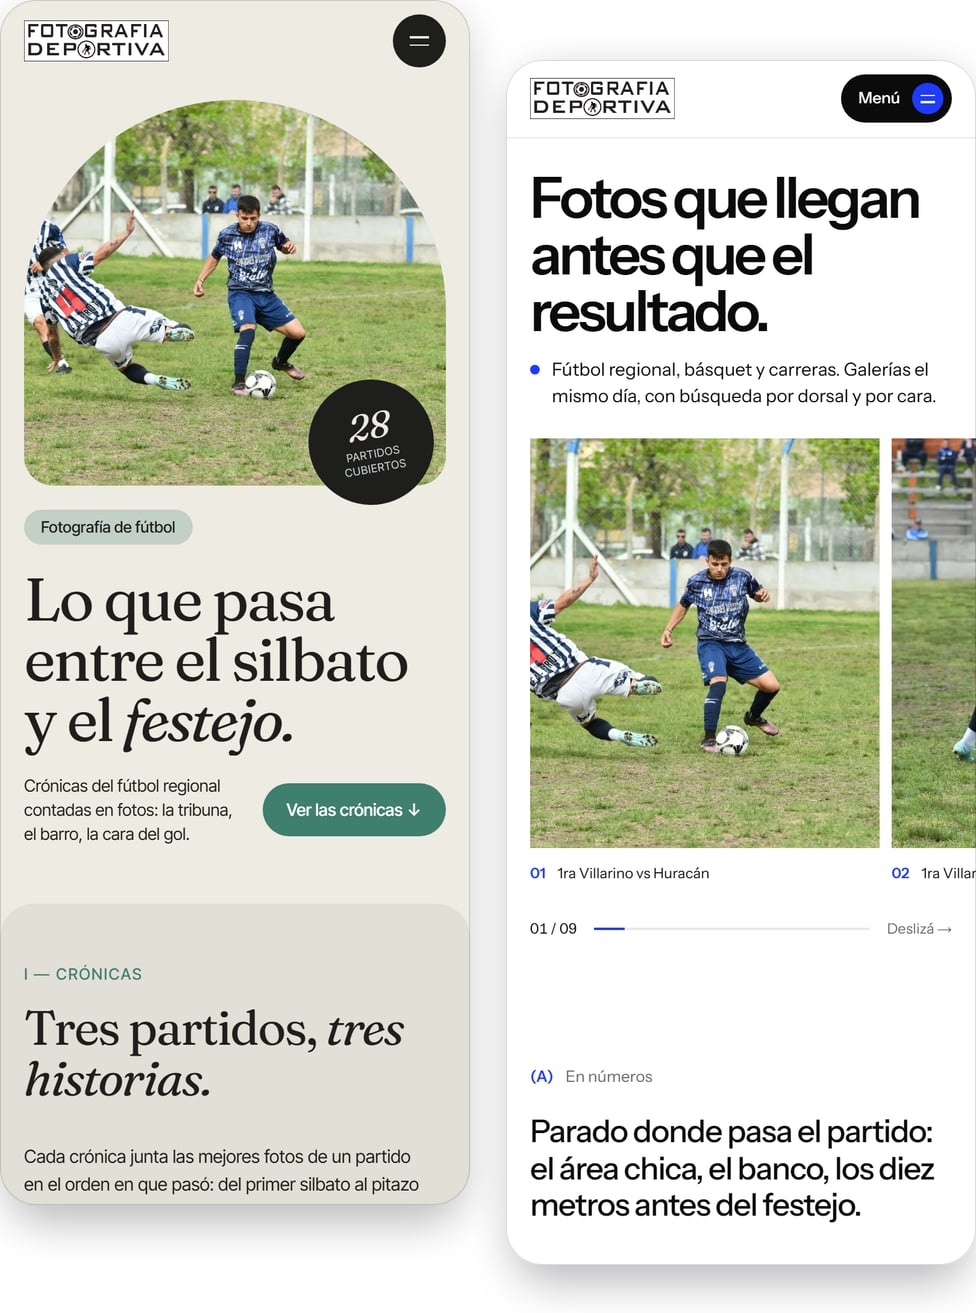
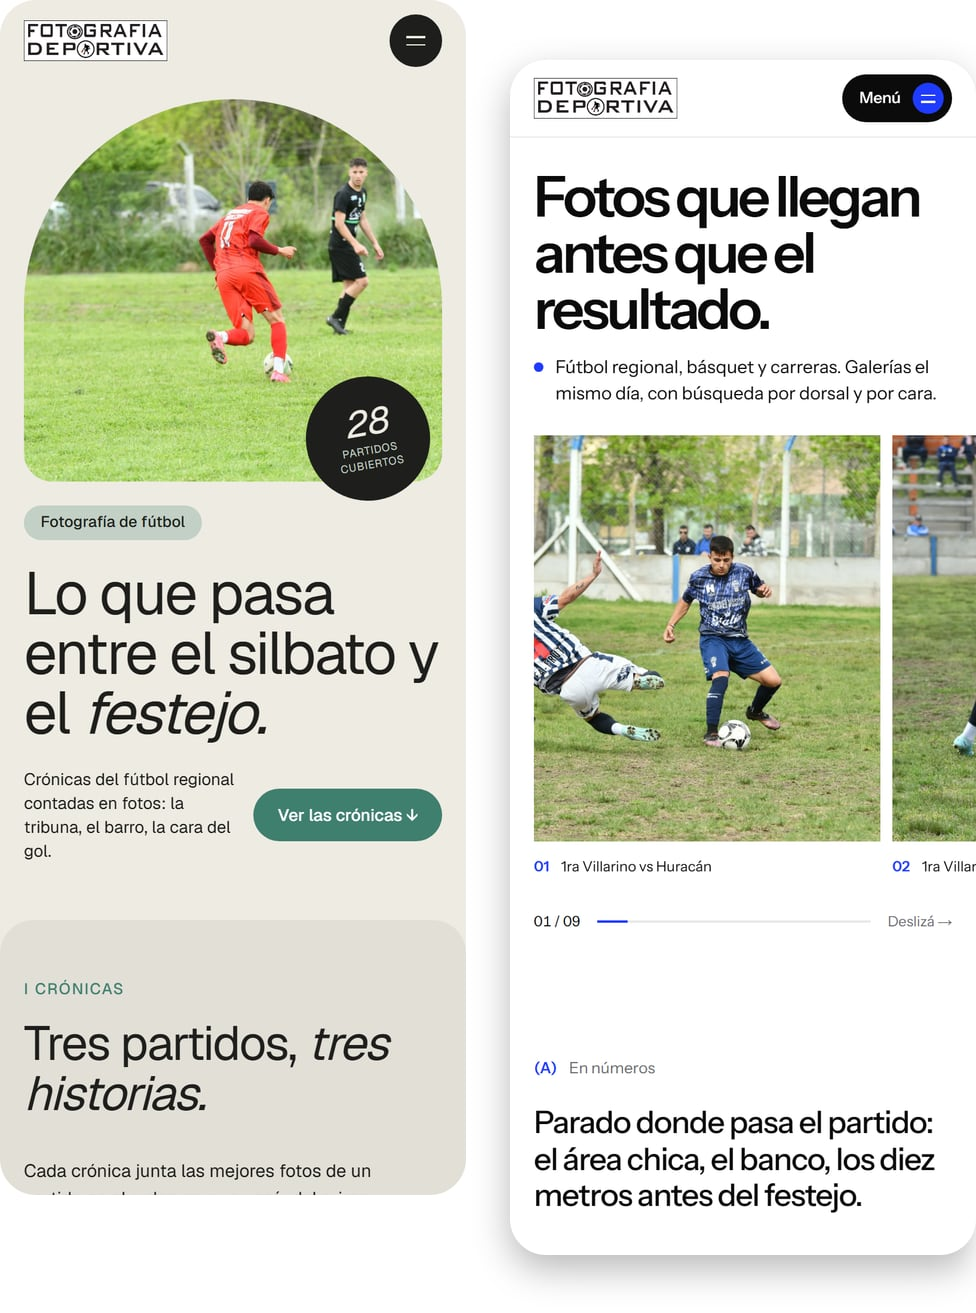
feat(portfolio): Sendero en Geist, sin rayas en los numerales ni en el mail
Sendero pasa de Fraunces + Inter Tight a Geist en todo (títulos incluidos),
y los rótulos de sección quedan «I Crónicas» en vez de «I — Crónicas». El
texto del anuncio de Portfolio deja de usar rayas, y su imagen se volvió a
generar con la plantilla así.

Claude-Session: https://claude.ai/code/session_01H4n4TpDoVf66vfvj3qfLvJ

diff --git a/cuervito/src/app/_portfolio/plantillas/sendero.tsx b/cuervito/src/app/_portfolio/plantillas/sendero.tsx
@@ -35,7 +35,7 @@ export const SENDERO_NODES: Record<string, EditorNode> = {
   "sd-sello-label":  { id: "sd-sello-label",  type: "paragraph", content: "carreras cubiertas" },
 
   /* Crónicas */
-  "sd-cron-num":     { id: "sd-cron-num",     type: "paragraph", content: "I —" },
+  "sd-cron-num":     { id: "sd-cron-num",     type: "paragraph", content: "I" },
   "sd-cron-label":   { id: "sd-cron-label",   type: "paragraph", content: "Crónicas" },
   "sd-cron-heading": { id: "sd-cron-heading", type: "heading",   content: "Tres carreras, <em>tres historias.</em>" },
   "sd-cron-intro":   { id: "sd-cron-intro",   type: "paragraph", content: "Cada crónica junta las mejores fotos de un evento en el orden en que pasó: de la largada a la última llegada." },
@@ -46,13 +46,13 @@ export const SENDERO_NODES: Record<string, EditorNode> = {
   "sd-cita-caption": { id: "sd-cita-caption", type: "paragraph", content: "{ubicacion}" },
 
   /* Cuaderno de ruta */
-  "sd-ruta-num":     { id: "sd-ruta-num",     type: "paragraph", content: "II —" },
+  "sd-ruta-num":     { id: "sd-ruta-num",     type: "paragraph", content: "II" },
   "sd-ruta-label":   { id: "sd-ruta-label",   type: "paragraph", content: "Cuaderno de ruta" },
   "sd-ruta-heading": { id: "sd-ruta-heading", type: "heading",   content: "Todas las carreras, <em>una por una.</em>" },
   "sd-ruta-intro":   { id: "sd-ruta-intro",   type: "paragraph", content: "Tocá un evento para ver su galería completa y buscar tus fotos por dorsal o con una selfie." },
 
   /* Sobre mí */
-  "sd-about-num":     { id: "sd-about-num",     type: "paragraph", content: "III —" },
+  "sd-about-num":     { id: "sd-about-num",     type: "paragraph", content: "III" },
   "sd-about-label":   { id: "sd-about-label",   type: "paragraph", content: "Sobre mí" },
   "sd-about-image":   { id: "sd-about-image",   type: "image",     src: "", alt: "Retrato" },
   "sd-about-image-2": { id: "sd-about-image-2", type: "image",     src: "", alt: "" },
@@ -60,7 +60,7 @@ export const SENDERO_NODES: Record<string, EditorNode> = {
   "sd-about-body":    { id: "sd-about-body",    type: "paragraph", content: "Trabajo con organizadores de carreras de montaña. Llego antes de la largada, elijo el punto donde la carrera se pone difícil y me quedo hasta el último corredor. Las fotos se suben el mismo día, y cada atleta encuentra las suyas con su dorsal o una selfie." },
 
   /* Contacto */
-  "sd-contact-num":     { id: "sd-contact-num",     type: "paragraph", content: "IV —" },
+  "sd-contact-num":     { id: "sd-contact-num",     type: "paragraph", content: "IV" },
   "sd-contact-label":   { id: "sd-contact-label",   type: "paragraph", content: "Contacto" },
   "sd-contact-heading": { id: "sd-contact-heading", type: "heading",   content: "Escribime y <em>vamos</em> a tu carrera." },
   "sd-contact-body":    { id: "sd-contact-body",    type: "paragraph", content: "Contame la fecha, el lugar y cuántos corredores esperás. Respondo en el día." },

diff --git a/cuervito/src/server/correos/plantillas.ts b/cuervito/src/server/correos/plantillas.ts
@@ -218,7 +218,7 @@ export function portfolioPronto(d: Destinatario): Mail {
         ${texto("La tienda es para vender: fotos con precio, buscador, carrito. Pero cuando un organizador o una marca te pregunta qué hacés, lo que querés mandar es otra cosa: tus veinte mejores fotos, grandes, sin marca de agua y con tu nombre arriba. Eso es Portfolio, y lo estamos terminando.")}
         ${pieza(imagen, "Dos pantallas de un portfolio con las plantillas Sendero y Fotofinish, en el celular", 488, 657)}
         ${aire}
-        ${texto("Elegís las fotos de tus eventos —las que más se vendieron, o las que quieras—, una plantilla, y queda en encontrate.app con tu dirección. Quien lo ve te escribe desde ahí, y cada evento del portfolio lleva a su galería en tu tienda.")}
+        ${texto("Elegís las fotos de tus eventos, las que más se vendieron o las que quieras, una plantilla, y queda en encontrate.app con tu dirección. Quien lo ve te escribe desde ahí, y cada evento del portfolio lleva a su galería en tu tienda.")}
         ${boton("Ir a mi panel", url)}
         ${nota("Lo vas a ver en tu panel en las próximas semanas, en la sección Portfolio. Mientras tanto, un consejo: subí los eventos que te faltan, porque las fotos del portfolio salen de ahí.")}
       `),
@@ -228,7 +228,7 @@ export function portfolioPronto(d: Destinatario): Mail {
 
 La tienda es para vender: fotos con precio, buscador, carrito. Pero cuando un organizador o una marca te pregunta qué hacés, lo que querés mandar es otra cosa: tus veinte mejores fotos, grandes, sin marca de agua y con tu nombre arriba. Eso es Portfolio, y lo estamos terminando.
 
-Elegís las fotos de tus eventos —las que más se vendieron, o las que quieras—, una plantilla, y queda en encontrate.app con tu dirección. Quien lo ve te escribe desde ahí, y cada evento del portfolio lleva a su galería en tu tienda.
+Elegís las fotos de tus eventos, las que más se vendieron o las que quieras, una plantilla, y queda en encontrate.app con tu dirección. Quien lo ve te escribe desde ahí, y cada evento del portfolio lleva a su galería en tu tienda.
 
 Lo vas a ver en tu panel en las próximas semanas, en la sección Portfolio. Mientras tanto, subí los eventos que te faltan: las fotos del portfolio salen de ahí.
 

diff --git a/cuervito/src/app/_portfolio/plantillas/SenderoPlantilla.tsx b/cuervito/src/app/_portfolio/plantillas/SenderoPlantilla.tsx
@@ -1,8 +1,8 @@
 "use client";
 
 /**
- * Sendero — crónica de montaña: hueso, roca y verde verdín, Fraunces e Inter
- * Tight, fotos en arcos y tarjetas redondeadas.
+ * Sendero — crónica de montaña: hueso, roca y verde verdín, Geist en todo,
+ * fotos en arcos y tarjetas redondeadas.
  *
  * Diseñada en Paper (archivo «encontrate — Portfolio», página 6). Todo se
  * mueve con peso y sin apuro, con una sola curva (--sd-curva): el arco de la
@@ -437,7 +437,7 @@ function Ruta() {
             return (
               <Clic key={e.href} href={e.href} className="sd-fila" data-rv="" style={{ "--i": i } as React.CSSProperties}>
                 <span className="sd-fila-fecha">
-                  <b>{f?.dia ?? "—"}</b>
+                  <b>{f?.dia ?? ""}</b>
                   <small>{f ? `${f.mes} ${f.anio}` : "sin fecha"}</small>
                 </span>
                 {e.portada && (

diff --git a/cuervito/src/app/_portfolio/plantillas/registro.ts b/cuervito/src/app/_portfolio/plantillas/registro.ts
@@ -37,11 +37,11 @@ export const PLANTILLAS: Record<IdPlantilla, TemplateDef> = {
   sendero: {
     id: "sendero",
     name: "Sendero",
-    descripcion: "Crónica de montaña: arcos, hueso y verde verdín.",
+    descripcion: "Crónica de montaña: arcos, hueso, verde verdín y Geist.",
     initialNodes: SENDERO_NODES,
     sections: SENDERO_SECTIONS,
     defaultPalette: { bg: "#EEEBE3", fg: "#1E1F1C", accent: "#3F7F6E", muted: "#77786F" },
-    defaultTypography: { serif: FAMILIAS.fraunces, sans: FAMILIAS.interTight, mono: FAMILIAS.interTight },
+    defaultTypography: { serif: FAMILIAS.geist, sans: FAMILIAS.geist, mono: FAMILIAS.geist },
     defaultButtons: { radius: 100, bg: "", fg: "" },
     defaultLogo: { ...DEFAULT_LOGO, text: "{nombre}" },
     // Las crónicas en abanico son el diseño: no hay grilla que elegir.
